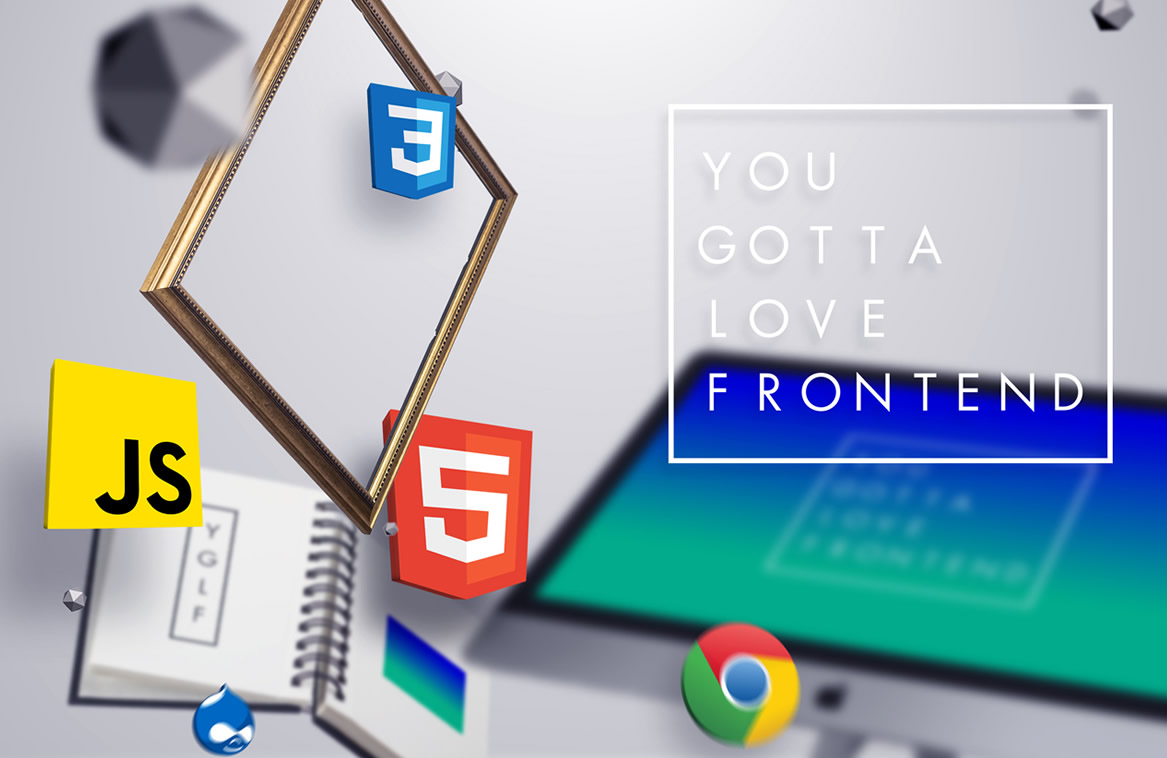
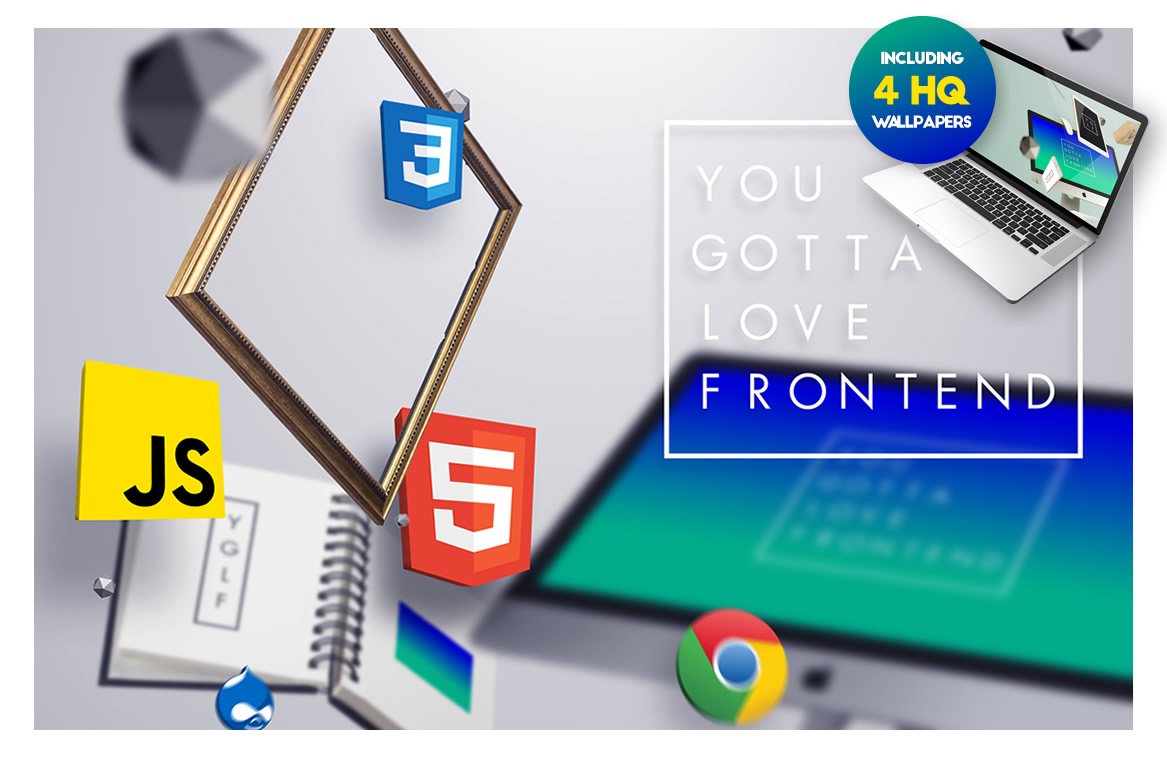
Update the README file

diff --git a/README.html b/README.html
@@ -13,7 +13,11 @@
 
 <h2 id="overview">Overview</h2>
 
-<p>This is my submission for the YGLF challenge,</p>
+<p>This is my submission for the YGLF challenge.</p>
+
+<h2 id="goodies">Goodies</h2>
+
+<p>Download YGLF wallpaper pack (1980x1200) - https://www.dropbox.com/s/4043w4ieyed2wbq/wallpapers.zip?dl=0</p>
 
 <h2 id="credits">Credits</h2>
 

diff --git a/README.md b/README.md
@@ -3,7 +3,10 @@
 ![frame](/frame.jpg)
 
 ## Overview
-This is my submission for the YGLF challenge,
+This is my submission for the YGLF challenge.
+
+## Goodies
+Download YGLF wallpaper pack (1980x1200) - https://www.dropbox.com/s/4043w4ieyed2wbq/wallpapers.zip?dl=0
 
 ## Credits
 Parallax slider - https://github.com/Prinzhorn/skrollr
